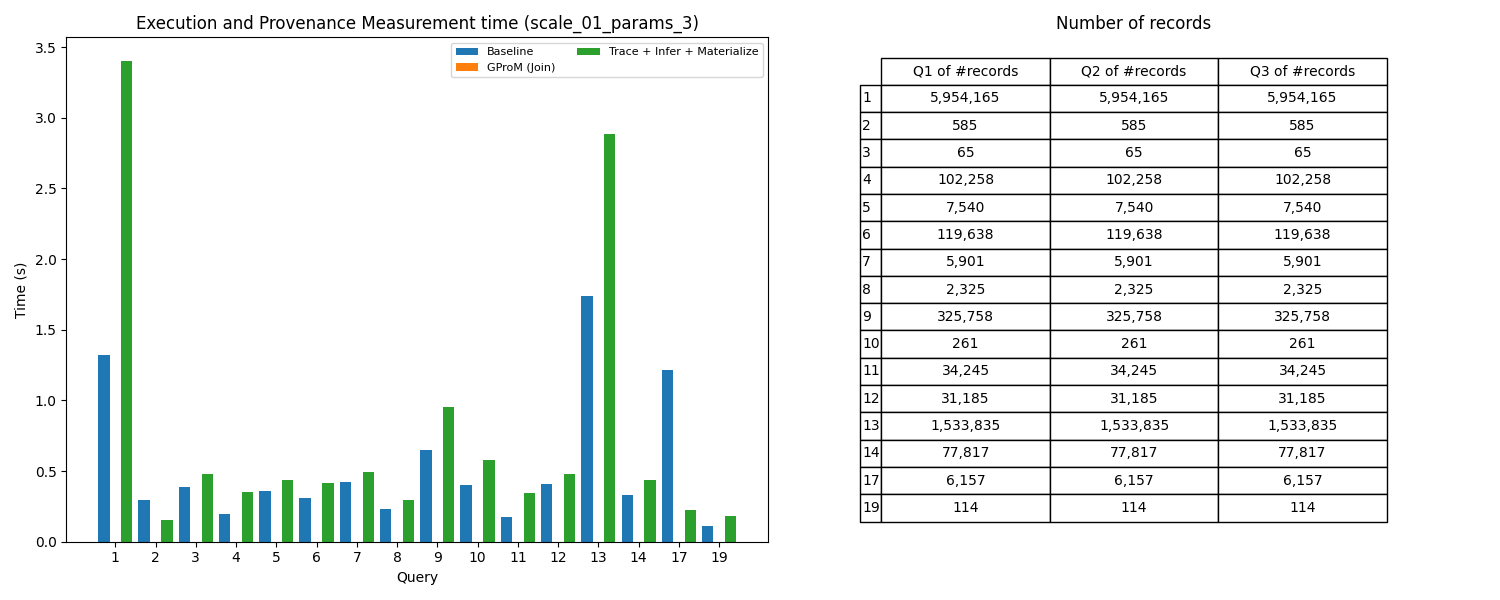
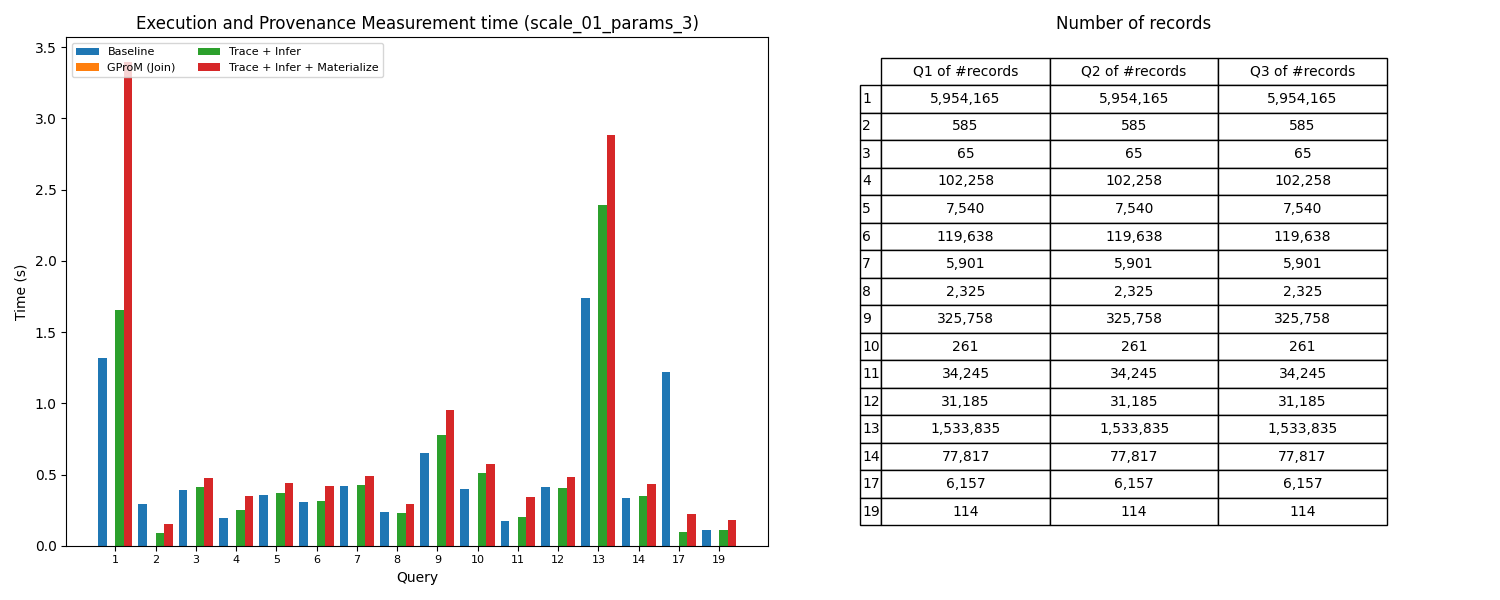
feat: Fixup font sizes + legends

diff --git a/postgres/benchmark/tpch/generate_figures.py b/postgres/benchmark/tpch/generate_figures.py
@@ -406,7 +406,7 @@ def generate_figures(
         plt.grid(axis="y", linestyle="--", alpha=0.7)
     else:
         group_width = 0.85
-        num_groups = 3
+        num_groups = 4
         bar_width = group_width / num_groups
         group_offsets = np.linspace(
             -(num_groups - 1) / 2 * bar_width,
@@ -436,9 +436,14 @@ def generate_figures(
             width=bar_width,
             label="GProM (Join)",
         )
-
         ax.bar(
             [idx + group_offsets[2] for idx, _ in queries],
+            [traceprov_forward_and_infer[query][0] for _, query in queries],
+            width=bar_width,
+            label="Trace + Infer",
+        )
+        ax.bar(
+            [idx + group_offsets[3] for idx, _ in queries],
             [
                 traceprov_forward_and_infer_and_material[query][0]
                 for _, query in queries
@@ -448,13 +453,13 @@ def generate_figures(
         )
 
     ax.set_xticks(
-        [idx for idx, _ in queries], labels=add_labels([q for _, q in queries])
+        [idx for idx, _ in queries], labels=add_labels([q for _, q in queries]), size=8
     )
 
     ax.set_ylabel("Time (s)")
     ax.set_title(f"Execution and Provenance Measurement time ({label})")
     ax.set_xlabel("Query")
-    ax.legend(loc="upper right", ncols=2, prop=dict(size=8))
+    ax.legend(loc="upper left", ncols=2, prop=dict(size=8))
 
     if len(gprom_time) > 0:
         ax.set_yscale("log", base=10)
@@ -498,7 +503,7 @@ def generate_figures(
     plt.grid(axis="x", linestyle="--", alpha=0.7)
     plt.grid(axis="y", linestyle="--", alpha=0.7)
     ax_2.set_xticks(
-        [idx for idx, _ in queries], labels=add_labels([q for _, q in queries])
+        [idx for idx, _ in queries], labels=add_labels([q for _, q in queries]), size=8
     )
 
     ax_2.set_xlabel("Query")
